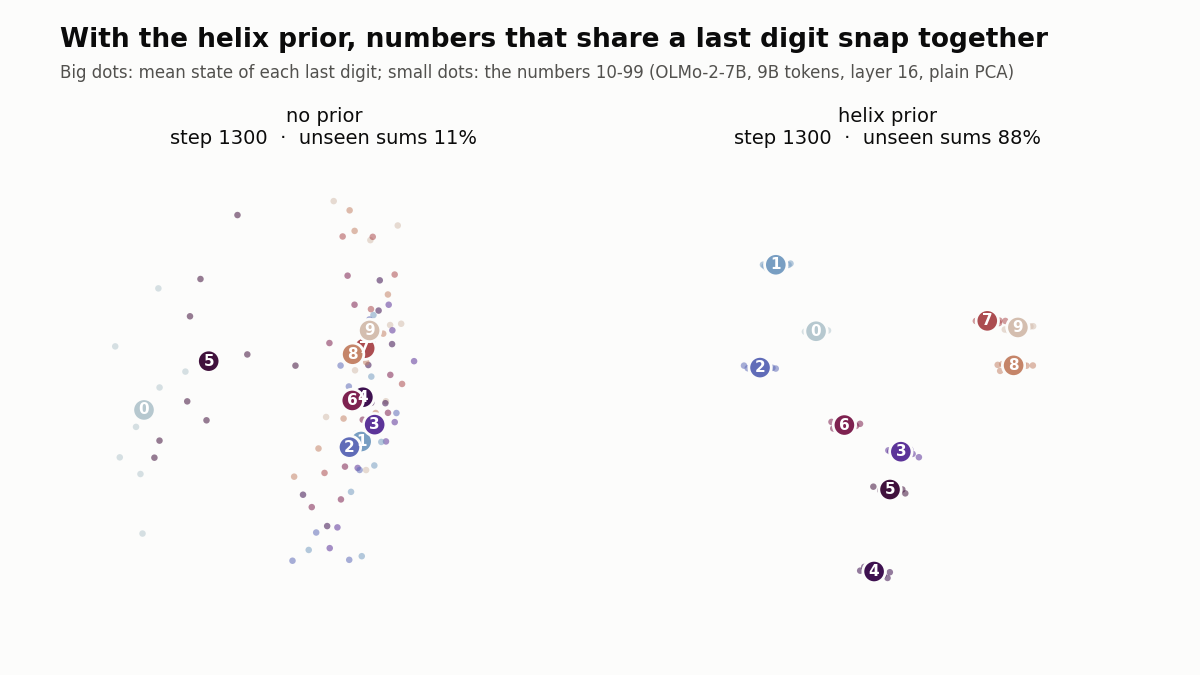
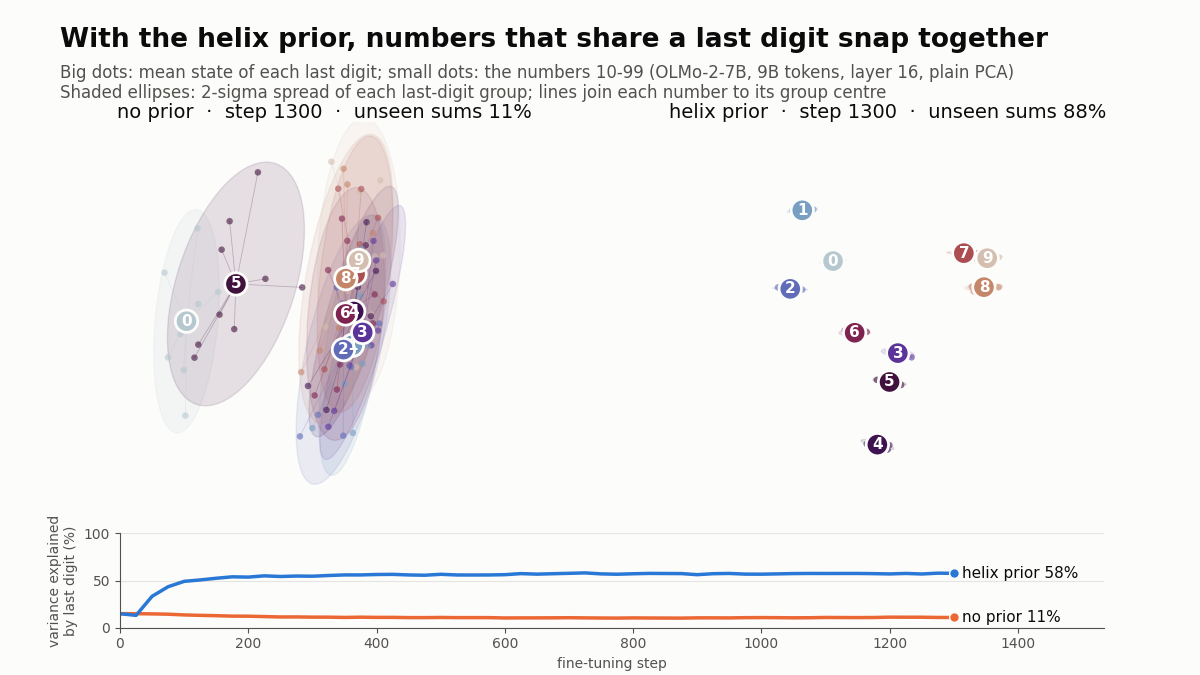
Shape animation: 2-sigma digit ellipses, spokes, variance-explained strip
Claude-Session: https://claude.ai/code/session_014Mi8fcANPfGJa2s2ozpGrz

diff --git a/tools/viz_shape.py b/tools/viz_shape.py
@@ -19,8 +19,18 @@ matplotlib.use("Agg")
 import matplotlib.pyplot as plt
 import numpy as np
 from matplotlib.animation import FuncAnimation, PillowWriter
+from matplotlib.patches import Ellipse
 
-SURFACE, INK, INK2, LINE = "#fcfcfb", "#0b0b0b", "#52514e", "#c9c8c3"
+SURFACE, INK, INK2, LINE, GRID = "#fcfcfb", "#0b0b0b", "#52514e", "#c9c8c3", "#e6e5e1"
+ARM_COLOR = {"no prior": "#eb6834", "helix prior": "#2a78d6"}   # same slots as the race figure
+
+
+def eta2(H):
+    """Share of the (full-dimensional) variance of the 90 number states explained by the last digit."""
+    nums = np.arange(10, 100)
+    mu = H.mean(0)
+    between = sum(9 * np.sum((H[nums % 10 == d].mean(0) - mu) ** 2) for d in range(10))
+    return float(between / np.sum((H - mu) ** 2))
 
 
 def digit_view(H):
@@ -45,12 +55,14 @@ def load(d):
     z = np.load(glob.glob(f"{d}/states_*_seed0.npz")[0])
     r = json.load(open(glob.glob(f"{d}/run_*_seed0.json")[0]))
     acc = {c["step"]: c["test"] for c in r["curve"]}
-    V = [digit_view(H.astype(np.float32)) for H in z["states"]]
+    Hs = [H.astype(np.float32) for H in z["states"]]
+    V = [digit_view(H) for H in Hs]
+    eta = [eta2(H) for H in Hs]
     out = []
     for m, x in V:
         U, _, Wt = np.linalg.svd(m.T @ V[-1][0]); R = U @ Wt
         out.append((m @ R, x @ R))
-    return z["steps"], out, acc
+    return z["steps"], out, acc, eta
 
 
 def main() -> None:
@@ -61,6 +73,7 @@ def main() -> None:
     args = ap.parse_args()
     arms = {"no prior": load(args.none), "helix prior": load(args.helix)}
     n = min(len(v[0]) for v in arms.values()); hold = 20
+    tmax = int(max(v[0][n - 1] for v in arms.values()))
     nums = np.arange(10, 100)
     cmap = plt.get_cmap("twilight")
     dcol = cmap(0.08 + 0.84 * np.arange(10) / 9.0)   # skip the near-white ends of the cyclic map
@@ -70,19 +83,44 @@ def main() -> None:
     fig.text(0.05, 0.93, "With the helix prior, numbers that share a last digit snap together", fontsize=19, color=INK, weight="bold")
     fig.text(0.05, 0.885, "Big dots: mean state of each last digit; small dots: the numbers 10-99 (OLMo-2-7B, 9B tokens, layer 16, plain PCA)",
              fontsize=12, color=INK2)
+    fig.text(0.05, 0.855, "Shaded ellipses: 2-sigma spread of each last-digit group; lines join each number to its group centre",
+             fontsize=12, color=INK2)
     axes = {}
     for i, name in enumerate(arms):
-        ax = fig.add_axes([0.06 + 0.47 * i, 0.06, 0.42, 0.72])
+        ax = fig.add_axes([0.06 + 0.47 * i, 0.27, 0.42, 0.55])
         ax.set_facecolor(SURFACE)
         ax.set_axis_off()
         axes[name] = ax
+    strip = fig.add_axes([0.1, 0.07, 0.82, 0.14])
 
     def frame(f):
         k = min(f, n - 1)
-        for name, (steps, X, acc) in arms.items():
+        strip.cla(); strip.set_facecolor(SURFACE)
+        for name, (steps, X, acc, eta) in arms.items():
+            strip.plot(steps[:k + 1], 100 * np.array(eta[:k + 1]), color=ARM_COLOR[name], linewidth=2.5)
+            strip.plot([steps[k]], [100 * eta[k]], "o", color=ARM_COLOR[name], markersize=7, markeredgecolor=SURFACE)
+            strip.text(steps[k] + tmax * 0.01, 100 * eta[k], f"{name} {100 * eta[k]:.0f}%", color=INK, fontsize=11, va="center")
+        strip.set_xlim(0, tmax * 1.18); strip.set_ylim(0, 100)
+        strip.set_ylabel("variance explained\nby last digit (%)", color=INK2, fontsize=10)
+        strip.set_xlabel("fine-tuning step", color=INK2, fontsize=10)
+        for sp in ("top", "right"):
+            strip.spines[sp].set_visible(False)
+        for sp in ("left", "bottom"):
+            strip.spines[sp].set_color(INK2)
+        strip.tick_params(colors=INK2, labelsize=10); strip.yaxis.grid(True, color=GRID); strip.set_axisbelow(True)
+        for name, (steps, X, acc, eta) in arms.items():
             ax = axes[name]; ax.cla(); ax.set_axis_off(); ax.set_facecolor(SURFACE)
             m, x = X[k]
-            ax.scatter(x[:, 0], x[:, 1], c=dcol[nums % 10], s=22, alpha=0.55, linewidths=0)
+            for d in range(10):   # 2-sigma ellipse of each last-digit cluster + spokes to its centre
+                pts = x[nums % 10 == d]
+                C = np.cov(pts.T) + 1e-9 * np.eye(2)
+                w, v = np.linalg.eigh(C)
+                ang = np.degrees(np.arctan2(v[1, -1], v[0, -1]))
+                ax.add_patch(Ellipse(pts.mean(0), 4 * np.sqrt(w[-1]), 4 * np.sqrt(w[0]), angle=ang,
+                                     facecolor=dcol[d], alpha=0.12, edgecolor=dcol[d], linewidth=1))
+                for q in pts:
+                    ax.plot([q[0], m[d, 0]], [q[1], m[d, 1]], color=dcol[d], alpha=0.25, linewidth=0.6)
+            ax.scatter(x[:, 0], x[:, 1], c=dcol[nums % 10], s=22, alpha=0.6, linewidths=0)
             ring = np.vstack([m, m[:1]])
 
             ax.scatter(m[:, 0], m[:, 1], c=dcol, s=260, edgecolors=SURFACE, linewidths=2, zorder=3)
@@ -90,8 +128,8 @@ def main() -> None:
                 ax.text(m[d, 0], m[d, 1], str(d), ha="center", va="center", fontsize=11, color="white", weight="bold", zorder=4)
             ax.set_xlim(-1.35, 1.35); ax.set_ylim(-1.35, 1.35); ax.set_aspect("equal")
             a = acc.get(int(steps[k]))
-            ax.set_title(f"{name}\nstep {int(steps[k])}" + (f"  ·  unseen sums {100 * a:.0f}%" if a is not None else ""),
-                         color=INK, fontsize=14, pad=0)
+            ax.set_title(f"{name}  ·  step {int(steps[k])}" + (f"  ·  unseen sums {100 * a:.0f}%" if a is not None else ""),
+                         color=INK, fontsize=14, pad=2)
         return []
 
     anim = FuncAnimation(fig, frame, frames=n + hold, interval=100)
